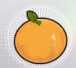
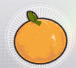
fix(kr): recognize reviewed orchard and dispatch label variants

diff --git a/dev_tools/extract_kr_orchard_icon.py b/dev_tools/extract_kr_orchard_icon.py
@@ -1,0 +1,31 @@
+from pathlib import Path
+from hashlib import sha256
+from PIL import Image
+from dev_tools.extract_kr_recipe_followup_nov9 import grid
+from module.base.utils import crop
+
+if __name__ == '__main__':
+    path = Path('log/kr_island_recipe_audit_501_9101.png')
[1 lines of base64/hex data omitted]
+        raise RuntimeError('Changed source requires review')
+    frame, buttons = grid(path)
+    icon = crop(frame, buttons.crop((20,20,115,115)).buttons[1].area)
+    label = crop(frame, buttons.crop((123,19,269,50)).buttons[1].area)
+    Image.fromarray(icon[8:76,8:84]).save('assets/kr/island_recipe_icon/2017.png')
+    Image.fromarray(icon).save('dev_tools/fixtures/kr_nov10_orchard_icon.png')
+    Image.fromarray(label).save('dev_tools/fixtures/kr_nov10_orchard_name.png')
+    Image.fromarray(label).save('assets/kr/island_item_name/2017_nov10_night_selected.png')
+    path = Path('log/kr_island_dispatch_name_9081.png')
[1 lines of base64/hex data omitted]
+        raise RuntimeError('Changed strawberry charlotte source requires review')
+    frame, buttons = grid(path)
+    label = crop(frame, buttons.crop((123,19,269,50)).buttons[2].area)
+    Image.fromarray(label).save('assets/kr/island_item_name/3028_nov10_night_selected.png')
+    Image.fromarray(label).save('dev_tools/fixtures/kr_nov10_charlotte_name.png')
+    path = Path('log/kr_island_dispatch_name_9207.png')
[1 lines of base64/hex data omitted]
+        raise RuntimeError('Changed dispatch cloth source requires review')
+    frame, buttons = grid(path)
+    label = crop(frame, buttons.crop((123,19,269,50)).buttons[0].area)
+    Image.fromarray(label).save('assets/kr/island_item_name/3035_nov10_dispatch_selected.png')
+    Image.fromarray(label).save('dev_tools/fixtures/kr_nov10_dispatch_cloth_name.png')

diff --git a/dev_tools/test_kr_joint_icon_shape.py b/dev_tools/test_kr_joint_icon_shape.py
@@ -8,6 +8,25 @@ from module.island_handler.korean_recipe_icon import KoreanRecipeIconVerifier
 from module.island_handler.korean_name_mask import long_label_coverage_agrees
 
 class JointIconShapeTest(unittest.TestCase):
+    def test_orchard_exact_reference_and_conflict_guard(self):
+        from module.island_handler.korean_ocr import KoreanIslandNameOcr
+        v = KoreanRecipeIconVerifier()
+        label = load_image('dev_tools/fixtures/kr_nov10_orchard_name.png')
+        icon = load_image('dev_tools/fixtures/kr_nov10_orchard_icon.png')
+        self.assertEqual(KoreanIslandNameOcr([]).ocr([label], direct_ocr=True), ['감귤'])
+        self.assertEqual(v.match_item(icon, {2017}), 2017)
+        self.assertIsNone(v.confirm_visual(icon, label, '사과', {2017}))
+
+    def test_charlotte_full_name_is_not_shortened_to_strawberry(self):
+        from module.island_handler.korean_ocr import KoreanIslandNameOcr
+        label = load_image('dev_tools/fixtures/kr_nov10_charlotte_name.png')
+        self.assertEqual(KoreanIslandNameOcr([]).ocr([label], direct_ocr=True), ['딸기 샬럿'])
+
+    def test_dispatch_cloth_uses_reviewed_exact_reference(self):
+        from module.island_handler.korean_ocr import KoreanIslandNameOcr
+        label = load_image('dev_tools/fixtures/kr_nov10_dispatch_cloth_name.png')
+        self.assertEqual(KoreanIslandNameOcr([]).ocr([label], direct_ocr=True), ['천'])
+
     def test_bright_mango_requires_complete_three_level_group(self):
         v = KoreanRecipeIconVerifier()
         icon = load_image('dev_tools/fixtures/kr_nov10_joint_bright_mango_icon.png')

diff --git a/doc/KR_VALIDATION_2026-11-10.md b/doc/KR_VALIDATION_2026-11-10.md
@@ -181,3 +181,7 @@
 -18:10:51~55 애플파이의 독립 그림+전체 grayscale+세 명암 획 경로 실기 발동.18:11:51 공방703,18:14:04 카페901 전체 감사 통과. 다만 같은 식당의 망고 찹쌀밥은 명암130 획 포함률 .911/150·170·190 각1.0으로 거부됐고, 공방706의 단음절 천은 새 선택 위치에서 실패했다. 전체 통과로 표시하지 않는다.
 - 독립 그림/전체 grayscale 판정을 선행하는 경로에만 밝은150·170·190 세 명암 모두의 전체 획 일치를 추가했다. 각 명암의 포함률 .995/후보 차이 .05 기준은 유지하며 두 번만 일치하는 다수결은 없다. 천은 공개 전체 글자 정확 참조만 추가했고 단음절 일반 허용은 하지 않았다. 새 망고 표본은 런타임 정답 참조가 아닌 fixture에만 추가. 관련7개/15.891초, 최신 저장23프레임 재생 failed=[] 통과. 전체 회귀 진행 중이며 현재 실행은 마지막 두 보완 미로딩이다.
 - 마지막 보완 포함 전체671개/289.313초 통과.18:18:37 서류 캐비닛 배정 스캔의 이름/재료 확인 실기 통과,18:18 생산 종료 후18:18:55 메인 복귀 확인.18:20 실제 GUI에서 정상 종료 경계 중지/즉시 생산 예약/재개로 새 수정본을 적용했다. 새 망고/천의 동일 조건 결과는 아직 진행 중이다.
+-18:24:28 식당603/9081,18:25:45 공방706/9207,18:26:56 카페901/9041 감사 실기 통과.18:27 미통과 목록은 과수원501/9101 한 곳이다.18:23 감귤의 새 표시가 재시도4회 중1회만 읽혀 안전 제외됐다. 그림 참조만 추가한 첫 재생은 실패했으며, 짧은 글자 후보 차이 기준을 낮추지 않고 확인한 공개 전체 글자 정확 참조를 추가했다. 관련8개/16.279초, 최신23프레임 failed=[] 통과. 이 추가는 현재 실행 미로딩이며 전체 회귀 진행 중이다.
+-18:29 식당603 배정 전 ‘딸기 샬럿’을 다른 유효 품목 ‘딸기’로 읽어 해당군 차단,18:30 공방706 배정의 다른 위치 ‘천’ 표시도 차단됐다. 유효 다른 이름 충돌 보호를 풀지 않고 직접 확인한 전체 글자 정확 참조만 추가. 관련10개/19.578초, 저장25프레임 failed=[] 통과. 중간 전체672개/311.836초는 마지막 두 표본 추가 중 실행됐으므로 최종 전체 결과와 구분하여 다시 실행한다.
+-18:28:21 벌목402004 1묶음,18:31:52 카페901002 12묶음 생산 시작→18:31:52 작업 정상 종료→18:31:58 메인 복귀.18:33 실제GUI에서 최신 감귤/배정 표시 보완을 로딩하고 생산 재진입 확인. 정상 정기 설정과 기존 생산 체크포인트 보존, 다이아 구매 없음.
+- 마지막 감귤/샬럿/배정 천 참조까지 포함한 최종 전체674개/299.975초 통과.18:36:10 과수원501/9101,18:37:27 식당603/9081 전체 감사 실기 통과. 배정 및 최종 정상 종료는 후속 확인 중이다.
